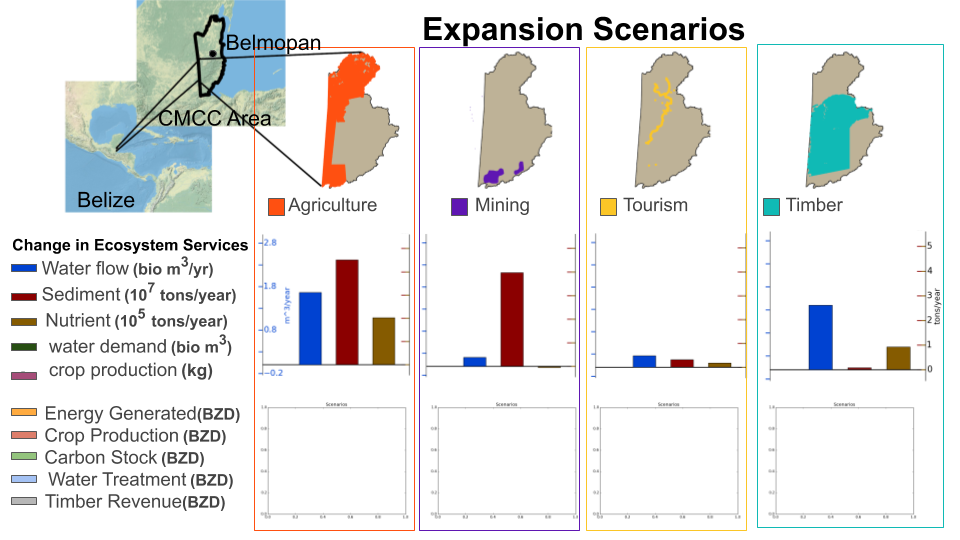
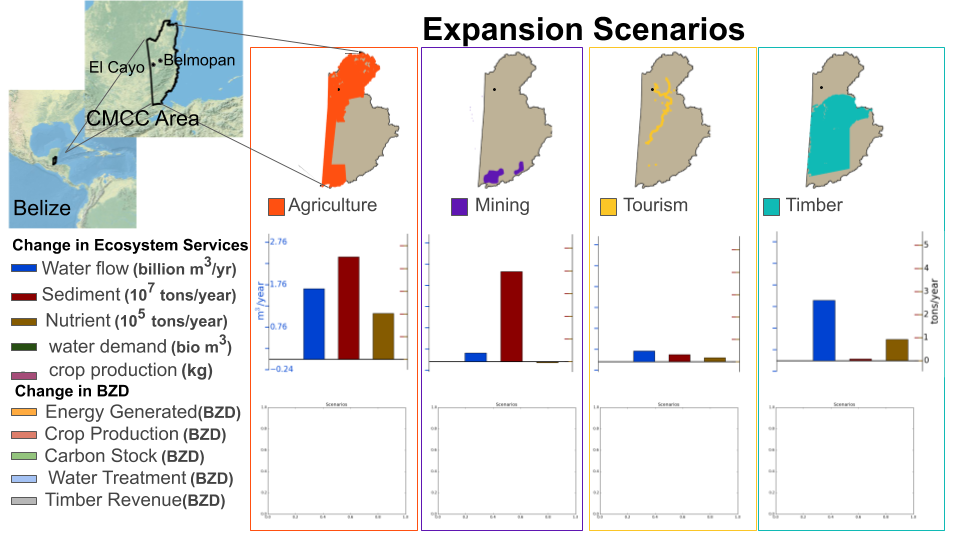
edits to layer orders, static figure updates

diff --git a/js/maps.js b/js/maps.js
@@ -1,6 +1,19 @@
 //Base Map
 var mymap = L.map('mapid').setView([16.872890378907783, -88.87390136718749], 10);
 
+//setting up map pane
+//mymap.createPane('labels');
+//mymap.getPane('labels').style.zIndex= 50; 
+//mymap.getPane('labels').style.pointerEvents = 'none';
+mymap.createPane('labels');
+mymap.getPane('labels').style.zIndex = 650;
+mymap.getPane('labels').style.pointerEvents = 'none';
+var positronLabels = L.tileLayer('https://{s}.basemaps.cartocdn.com/light_only_labels/{z}/{x}/{y}.png', {
+        attribution: '©OpenStreetMap, ©CartoDB',
+        pane: 'labels'
+});//.addTo(mymap);
+
+
 var baseMapOne = L.tileLayer('https://server.arcgisonline.com/ArcGIS/rest/services/World_Topo_Map/MapServer/tile/{z}/{y}/{x}', {
 	attribution: 'Tiles &copy; Esri'
 });
@@ -14,7 +27,8 @@ var baseMapTwo = L.tileLayer('https://server.arcgisonline.com/ArcGIS/rest/servic
 var baseMapTwoLabels = L.tileLayer('https://{s}.basemaps.cartocdn.com/rastertiles/voyager_only_labels/{z}/{x}/{y}{r}.png', {
 	attribution: '&copy; <a href="https://www.openstreetmap.org/copyright">OpenStreetMap</a> contributors &copy; <a href="https://carto.com/attributions">CARTO</a>',
 	subdomains: 'abcd',
-	maxZoom: 19
+	maxZoom: 19,
+	pane: 'labels'
 });
 
 
@@ -54,6 +68,7 @@ document.getElementById("mapRadio").onclick = function(){
 	if (this.checked){
 		mymap.removeLayer(baseMapTwo);
 		mymap.removeLayer(baseMapTwoLabels);
+		mymap.removeLayer(positronLabels);
 		baseMapOne.addTo(mymap);
 
 	}
@@ -65,6 +80,7 @@ document.getElementById("satelliteRadio").onclick = function(){
 		//mymap.removeLayer(minimap);
 		baseMapTwo.addTo(mymap);
 		baseMapTwoLabels.addTo(mymap);
+		positronLabels.addTo(mymap);
 		//miniMap2.addTo(mymap);
 	}
 }

diff --git a/index.html b/index.html
@@ -122,6 +122,13 @@
 <button type= "button" class="button" id= "expandFigureButton" onclick="expandFigureOpen()">Click to Expand Figure</button>
 <br>
 	<img src="scripts/scenarioStaticFigure/ScenarioStaticFigure.png" width= 100%>
+	<div>
+		<h3>About this Figure</h3>
+		<br>
+		Sediment Flow: Reffers to flow of sediments in and out of the area. A positive value for flow means sediment is retained, a negative value means sediments are lost and flow out of the system. 
+		<br>
+		Nutrient Flow: Reffers to the flow of nutrients in and out of the area. A positive value for flow means nutrients are retained, a negative value means nutrients are lost and flow out of the system. 
+	</div>
 </div>
 
 <div class= "LULCclose panels" id= "LULCPanel2"><h3>Expansion Scenarios Draft</h3> <button type= "button" class= "exitButton" onclick="LULCPanelClose2()">X</button>

diff --git a/js/layers.js b/js/layers.js
@@ -265,8 +265,13 @@ function hotelLinkClick() {
 	window.open('https://www.belizehotels.org/interactive-map/');
 }
 
+//Pane set up for roads
+mymap.createPane('road');
+mymap.getPane('road').style.zIndex = 650;
+mymap.getPane('road').style.pointerEvents = 'none';
+
 //Layer Data Load In
-	var newRoad = new L.Shapefile("data/newRoad.zip", {style: roadStyle});
+	var newRoad = new L.Shapefile("data/newRoad.zip", {style: roadStyle, pane: 'road'});
 
 	var agZones = new L.Shapefile("data/ag_defined_v1.zip", {style: currentAgStyle});
 

diff --git a/css/belizeStylesheet.css b/css/belizeStylesheet.css
@@ -153,6 +153,9 @@ html *{
 			right: 35%;
 			position: absolute;
 			width: 40%;
+			height: auto;
+			max-height: 88%;
+			overflow: scroll;
 
 		}
 

diff --git a/scripts/scenarioStaticFigure/agricultureESBarChart.py b/scripts/scenarioStaticFigure/agricultureESBarChart.py
@@ -103,7 +103,7 @@ baseflow.set_xlabel("Agriculture")
 
 #sediment.set_ylabel("tons/year", size=18, color="#8b0000" )
 #nutrient.set_ylabel("tons/year", size=18, color="#855b00")
-totalflow.set_ylabel("m^3/year", size=18, color="#0042d1")
+totalflow.set_ylabel("m$^3$/year", size=18, color="#0042d1")
 
 
 
